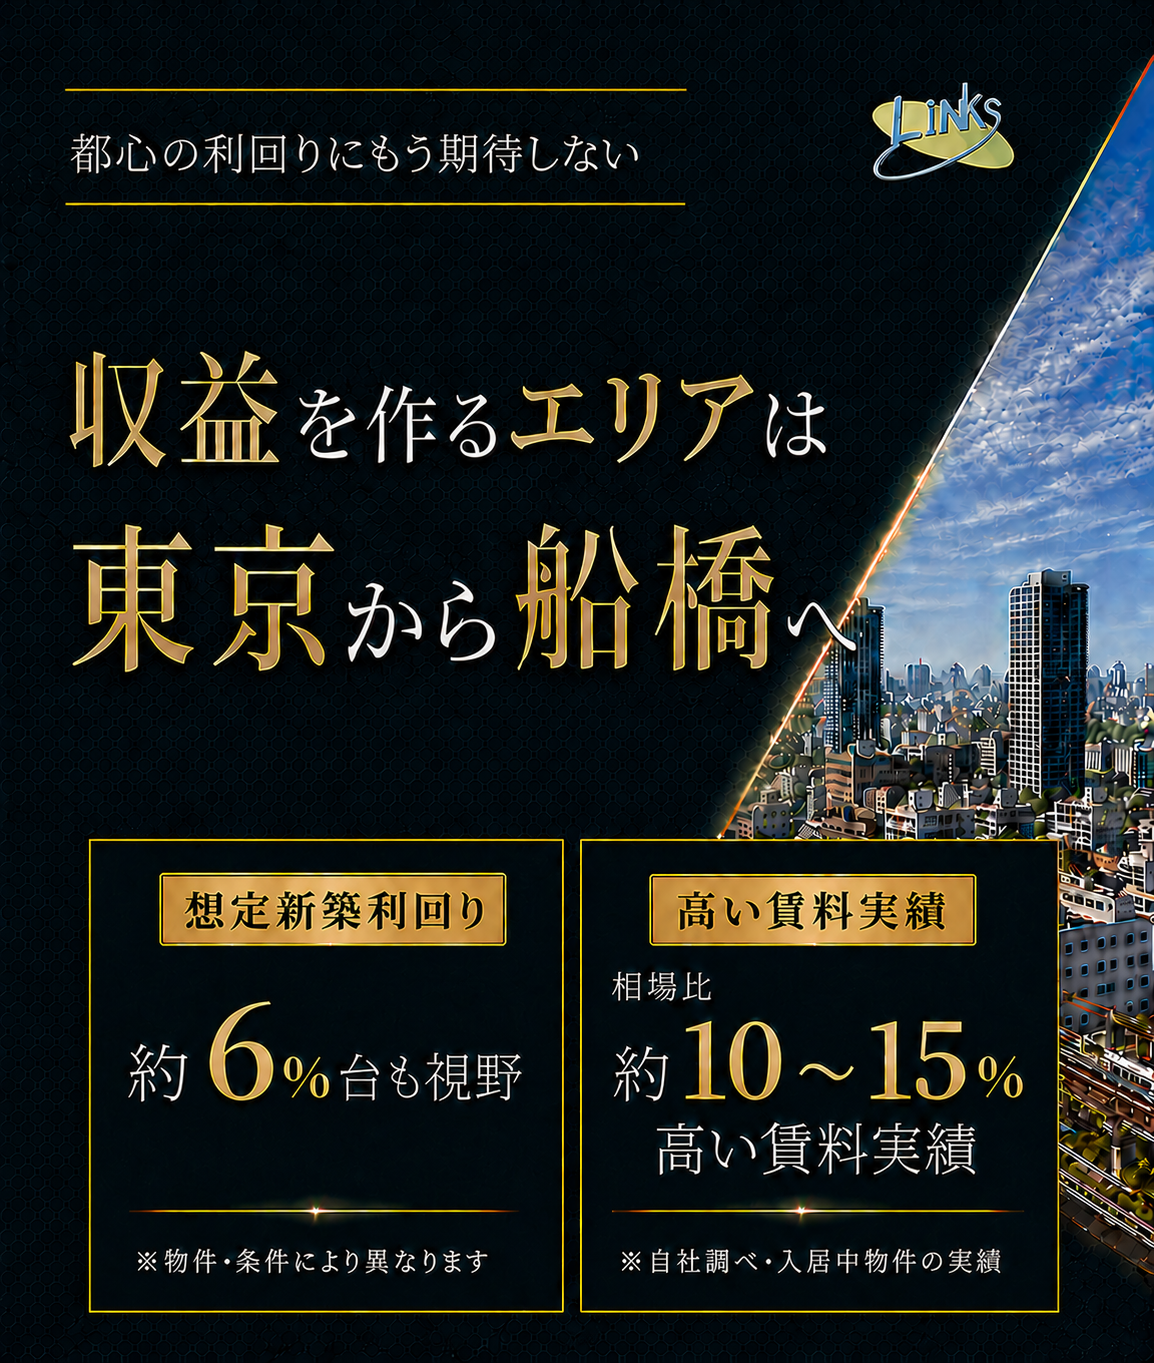
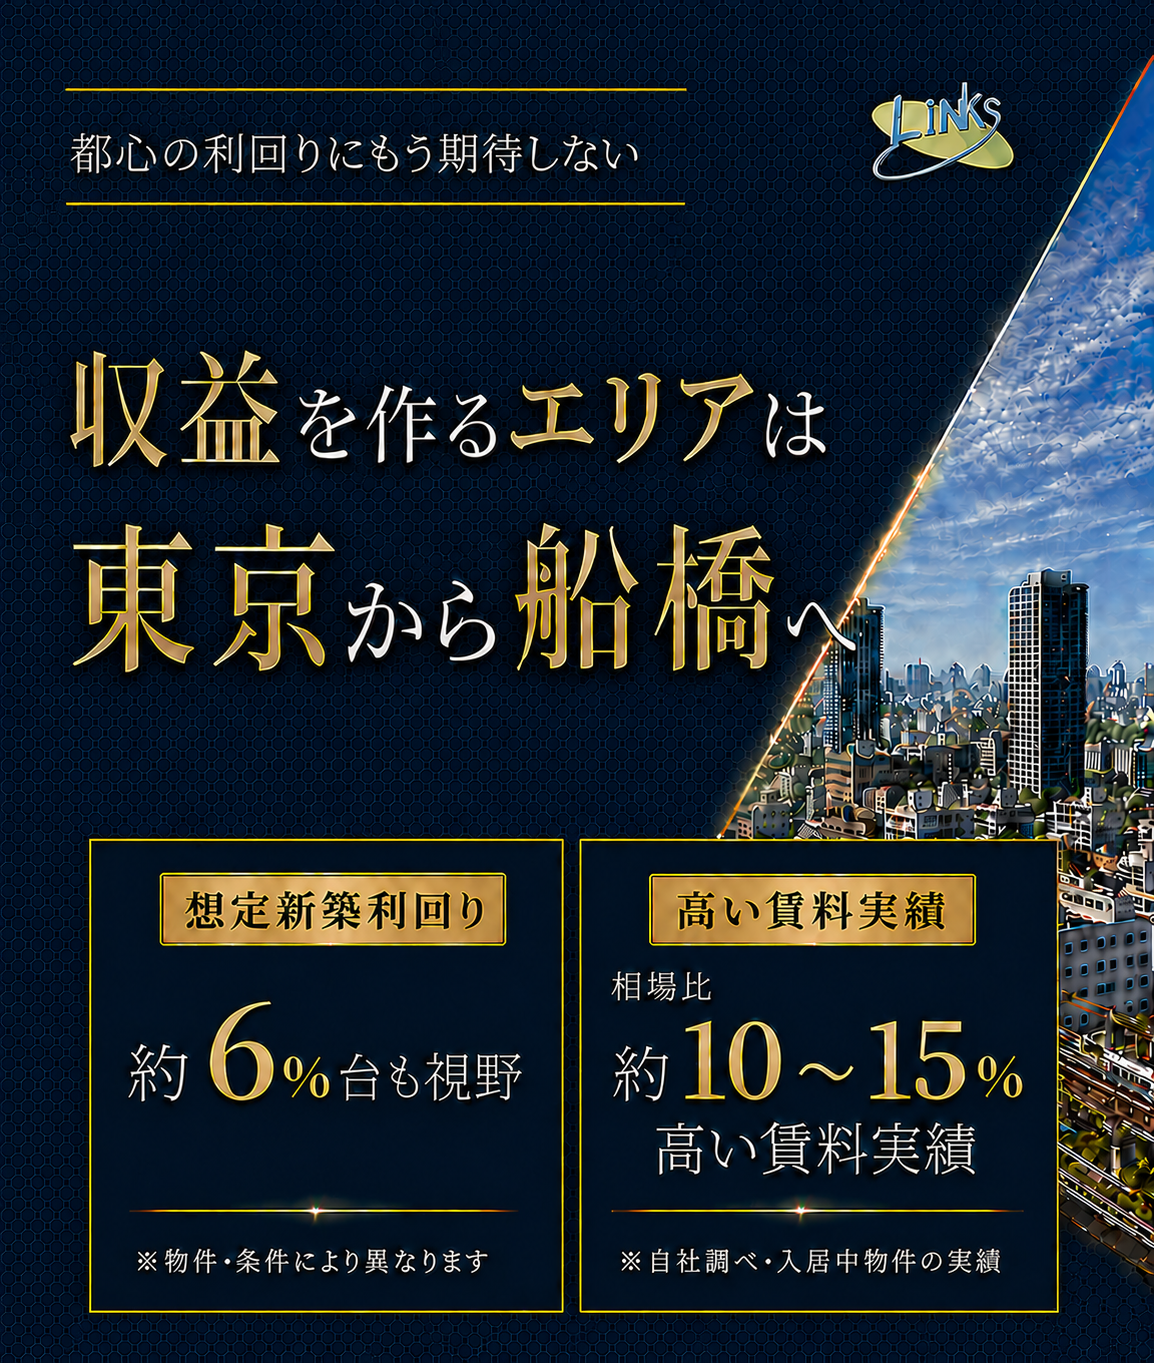
1枚目の画像修正を反映

diff --git a/index.html b/index.html
@@ -18,7 +18,7 @@
 
       <div class="lp__image">
         <img
-          src="./img/1.png?v=202608271753"
+          src="./img/1.png?v=202608271921"
           alt="東京で1室買うなら船橋で1棟。想定利回り6パーセント台、高い賃料実績"
           width="1154"
           height="1363"
